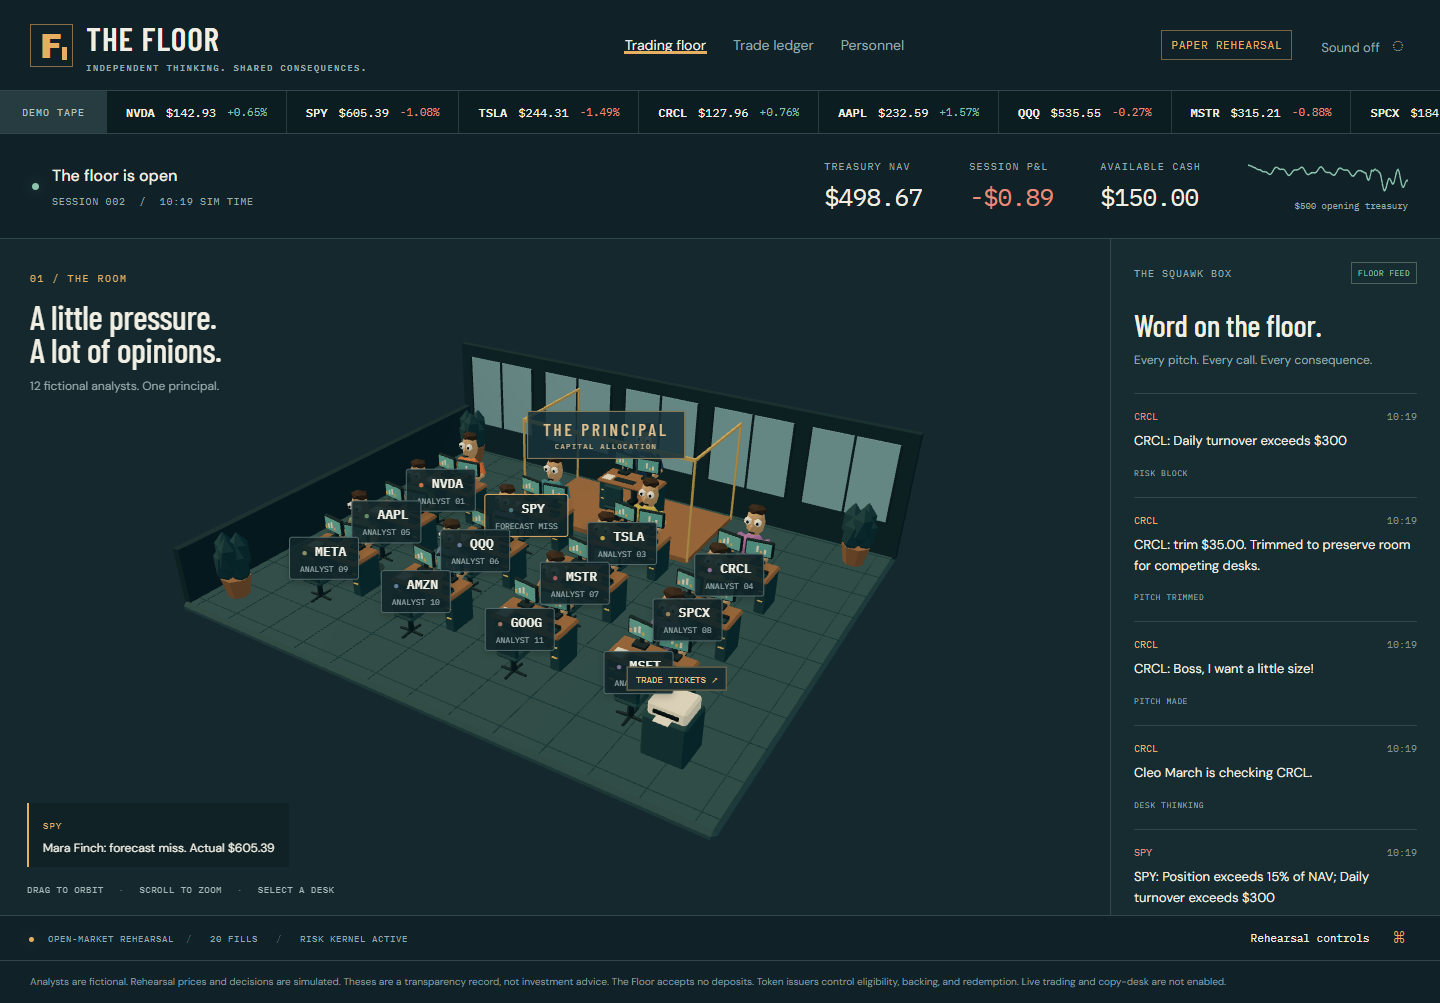
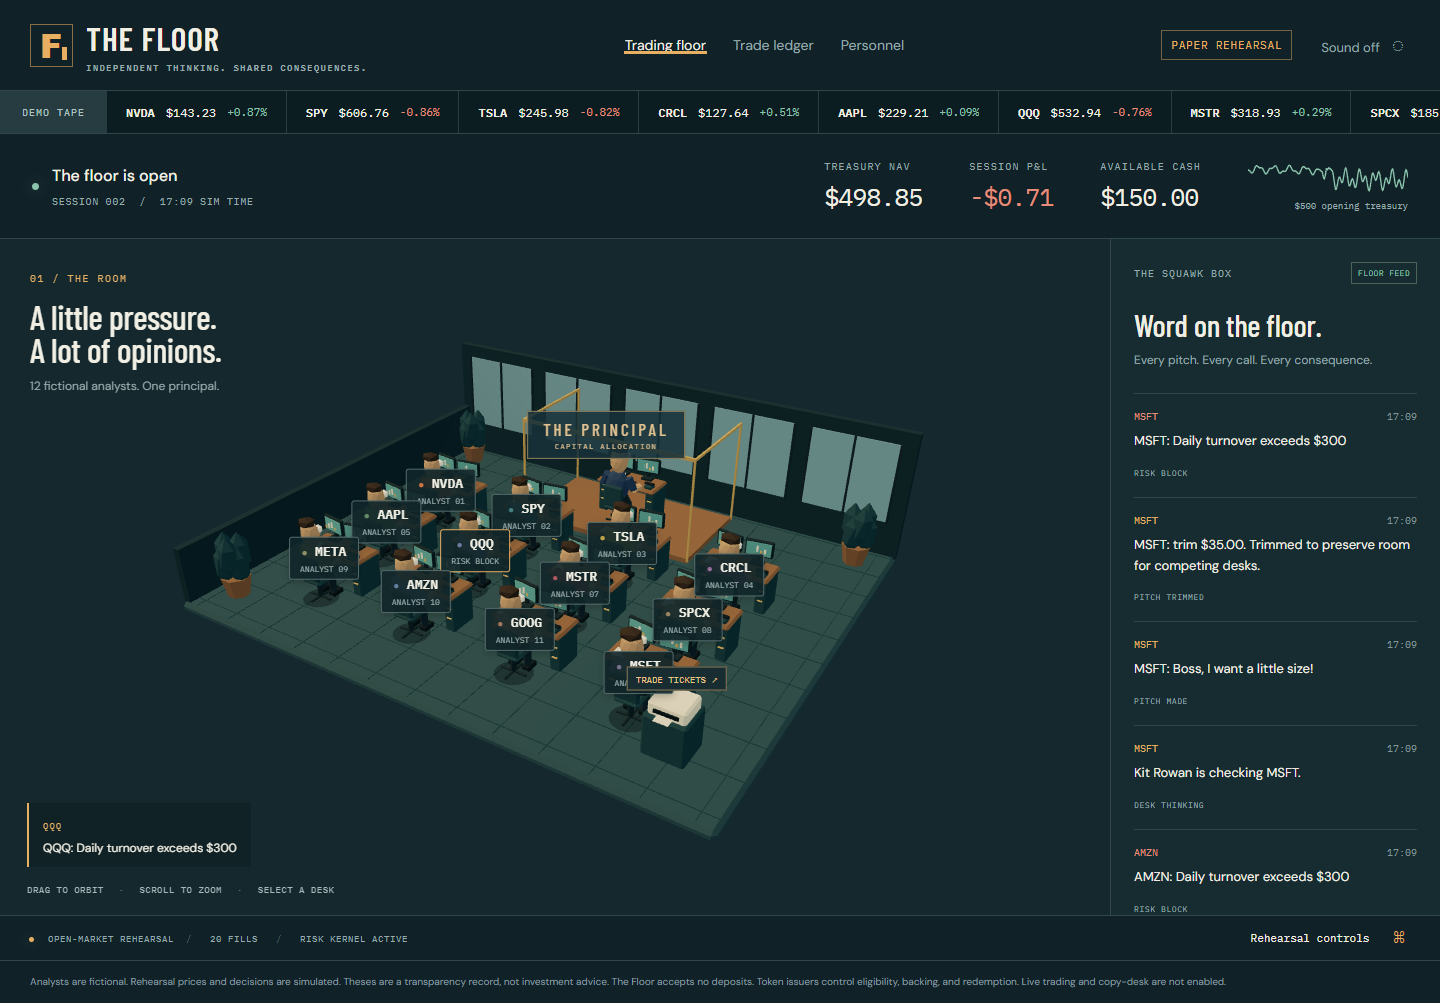
Correct desk seating and isolate character animation playback

diff --git a/components/Scene.tsx b/components/Scene.tsx
@@ -2,7 +2,7 @@
 import {Canvas,useFrame,useThree} from '@react-three/fiber';
 import {useGLTF,useAnimations,OrbitControls,Html} from '@react-three/drei';
 import {clone} from 'three/examples/jsm/utils/SkeletonUtils.js';
-import {Suspense,useEffect,useMemo,useRef} from 'react';
+import {Suspense,useEffect,useMemo,useRef,useState} from 'react';
 import * as THREE from 'three';
 import {useFloor} from './store';
 import type {Desk} from '@/packages/core/types';
@@ -10,17 +10,51 @@ const seats=Array.from({length:12},(_,i)=>[(-3.9+(i%4)*2.6),0,(-1.3+Math.floor(i
 function Asset({path,position=[0,0,0],rotation=0,scale=1}:{path:string;position?:[number,number,number];rotation?:number;scale?:number}){const {scene}=useGLTF(path);const object=useMemo(()=>scene.clone(true),[scene]);return <primitive object={object} position={position} rotation-y={rotation} scale={scale}/>;}
 function Analyst({desk,position,boss=false}:{desk?:Desk;position:[number,number,number];boss?:boolean}){
  const {scene,animations}=useGLTF('/models/analyst.glb');const ref=useRef<THREE.Group>(null);const character=useMemo(()=>{const object=clone(scene);object.traverse(node=>{if(node instanceof THREE.Mesh){node.geometry=node.geometry.clone();const colors=node.geometry.getAttribute('color');if(colors){const jacket=new THREE.Color(desk?.color??'#354c65');for(let i=0;i<colors.count;i++){const r=colors.getX(i),g=colors.getY(i),b=colors.getZ(i);if(r>g*2&&g>b*1.6)colors.setXYZ(i,jacket.r,jacket.g,jacket.b);}colors.needsUpdate=true;}}});return object;},[scene,desk?.color]);const {actions}=useAnimations(animations,ref);const event=useFloor(s=>s.event);
- useEffect(()=>{let clip='idle';if(event?.deskId===desk?.id){if(event?.kind==='PITCH_MADE'||event?.kind==='FORECAST_HIT')clip='standYell';if(event?.kind==='PITCH_APPROVED'||event?.kind==='FILL')clip='phone';if(['RISK_BLOCK','FORECAST_MISS','FAIL','FIRED'].includes(event?.kind??''))clip='deskSlam';}
- const action=actions[clip];action?.reset().fadeIn(.25).play();return()=>{action?.fadeOut(.25);};},[actions,event,desk?.id]);
- return <group ref={ref} position={position} rotation-y={0} scale={boss?1.08:1}><primitive object={character}/></group>;
+ const [clip,setClip]=useState('idle');
+ const lastReaction=useRef(-Infinity);
+ const pending=useRef<ReturnType<typeof setTimeout>|null>(null);
+ const returnToIdle=useRef<ReturnType<typeof setTimeout>|null>(null);
+ const currentClip=useRef('idle');
+ const previousAction=useRef<THREE.AnimationAction|null>(null);
+ useEffect(()=>{
+  if(!desk?.id||event?.deskId!==desk.id)return;
+  const next=event.kind==='PITCH_MADE'||event.kind==='FORECAST_HIT'?'standYell'
+   :['PITCH_APPROVED','PITCH_TRIMMED','FILL'].includes(event.kind)?'phone'
+   :['RISK_BLOCK','PITCH_REJECTED','FORECAST_MISS','FAIL','FIRED'].includes(event.kind)?'deskSlam':null;
+  if(!next)return;
+  if(pending.current)clearTimeout(pending.current);
+  const react=()=>{
+   pending.current=null;
+   if(currentClip.current!==next){currentClip.current=next;lastReaction.current=performance.now();setClip(next);}
+   if(returnToIdle.current)clearTimeout(returnToIdle.current);
+   returnToIdle.current=setTimeout(()=>{currentClip.current='idle';setClip('idle');},3000);
+  };
+  const delay=Math.max(0,2800-(performance.now()-lastReaction.current));
+  if(delay)pending.current=setTimeout(react,delay);else react();
+ },[event,desk?.id]);
+ useEffect(()=>()=>{if(pending.current)clearTimeout(pending.current);if(returnToIdle.current)clearTimeout(returnToIdle.current);},[]);
+ useEffect(()=>{
+  const action=actions[clip];if(!action)return;
+  const previous=previousAction.current;
+  action.reset().setEffectiveWeight(1);
+  action.setLoop(clip==='idle'||clip==='phone'?THREE.LoopRepeat:THREE.LoopOnce,Infinity);
+  action.clampWhenFinished=clip!=='idle'&&clip!=='phone';
+  action.setEffectiveTimeScale(clip==='idle'?.88+(desk?.seed??4)%5*.045:1);
+  if(clip==='idle')action.time=((desk?.seed??12)*.193)%action.getClip().duration;
+  action.play();
+  if(previous&&previous!==action)previous.crossFadeTo(action,.4,false);else action.fadeIn(.4);
+  previousAction.current=action;
+  if(ref.current)ref.current.userData={analyst:desk?.id??'principal',clip,transitions:(ref.current.userData.transitions??0)+1};
+ },[actions,clip,desk?.seed,desk?.id]);
+ return <group ref={ref} position={position} rotation-y={Math.PI} scale={boss?1.08:1}><primitive object={character}/></group>;
 }
 function DeskModel({desk,index}:{desk:Desk;index:number}){
  const selected=useFloor(s=>s.selected);const select=useFloor(s=>s.select);const event=useFloor(s=>s.event);const p=seats[index];
  const hot=event?.deskId===desk.id;
  return <group position={p} onClick={e=>{e.stopPropagation();select(desk.id);}} onPointerOver={()=>{document.body.style.cursor='pointer';}} onPointerOut={()=>{document.body.style.cursor='auto';}}>
  <Asset path="/models/workstation.glb"/>
- <Analyst desk={desk} position={[0,0,-.76]}/>
- <mesh rotation-x={-Math.PI/2} position={[0,.016,-.74]}><circleGeometry args={[.40,16]}/><meshBasicMaterial color="#07191c" transparent opacity={.36}/></mesh>
+ <Analyst desk={desk} position={[0,0,.76]}/>
+ <mesh rotation-x={-Math.PI/2} position={[0,.016,.76]}><circleGeometry args={[.40,16]}/><meshBasicMaterial color="#07191c" transparent opacity={.36}/></mesh>
  <Html position={[0,.91,.52]} center zIndexRange={[10,0]}><button className={'desk-label '+(selected===desk.id?'selected':'')} onPointerDown={e=>e.stopPropagation()} onClick={e=>{e.stopPropagation();select(desk.id);}} style={{borderColor:hot?'#e5ad65':undefined}}><span style={{color:desk.color}}>●</span> {desk.symbol}<small>{hot?event?.kind.replaceAll('_',' ').toLowerCase():'analyst '+String(index+1).padStart(2,'0')}</small></button></Html>
  {selected===desk.id&&<mesh rotation-x={-Math.PI/2} position={[0,.022,.15]}><ringGeometry args={[.92,.96,32]}/><meshBasicMaterial color="#e7b263" transparent opacity={.9}/></mesh>}
  </group>;
@@ -39,12 +73,14 @@ export default function Scene(){
  <ambientLight intensity={snapshot?.marketOpen ? 1.35 : .35}/><hemisphereLight args={['#c7e5e2','#252f34',.65]}/><directionalLight position={[-5,9,3]} intensity={snapshot?.marketOpen?2:.6} color="#ffd5a0"/>
  <Suspense fallback={null}><Asset path="/models/room.glb"/>
  {snapshot?.desks.map((d,i)=><DeskModel key={d.id} desk={d} index={i}/>)}
- <Asset path="/models/workstation.glb" position={[0,.12,-3.65]}/><Analyst position={[0,.12,-4.4]} boss/>
+ <Asset path="/models/workstation.glb" position={[0,.12,-3.65]}/><Analyst position={[0,.12,-2.89]} boss/>
  <Html position={[0,2.75,-2.22]} center><div className="office-sign">THE PRINCIPAL<span>CAPITAL ALLOCATION</span></div></Html>
  <Html position={[4.9,1.55,3.9]} center><button className="printer-label" onClick={()=>window.dispatchEvent(new Event('open-blotter'))}>TRADE TICKETS ↗</button></Html>
  </Suspense><CameraRig/><Metrics/>
  </Canvas>;
 }
+
+
 
 
 
